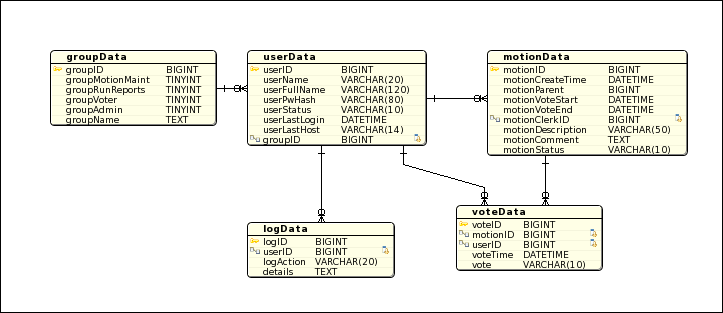
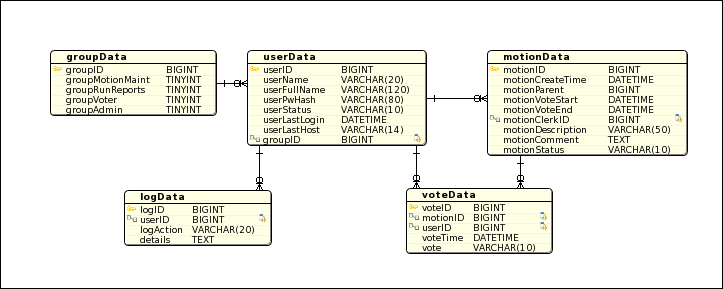
Updated documentation and the dbwrench file to show the correct database name.

diff --git a/schema/docs/tables/schemaA_groupData.html b/schema/docs/tables/schemaA_groupData.html
@@ -7,7 +7,7 @@
 <Body>
 <table class="logo">
 <tr>
-<td class="logo">DbWrench Documentation: nrtb</td>
+<td class="logo">DbWrench Documentation: ccvote</td>
 </tr>
 </table>
 <table class="horzMenu">
@@ -38,20 +38,17 @@
 <img src="../images/ok12d.gif"></p>
 </td><td class="PkCol"> </td><td class="PkCol">Unique group ID number</td><td class="PkCol"> </td>
 </tr>
-<tr class="altRow">
+<tr>
 <td> </td><td><a href="../columns/schemaA_groupData_groupMotionMaint.html">groupMotionMaint</a></td><td>TinyInt</td><td> </td><td> </td><td> </td><td>Allowed to maintain motions</td><td> </td>
 </tr>
 <tr>
 <td> </td><td><a href="../columns/schemaA_groupData_groupRunReports.html">groupRunReports</a></td><td>TinyInt</td><td> </td><td> </td><td> </td><td>Allowed to run reporting</td><td> </td>
 </tr>
-<tr class="altRow">
+<tr>
 <td> </td><td><a href="../columns/schemaA_groupData_groupVoter.html">groupVoter</a></td><td>TinyInt</td><td> </td><td> </td><td> </td><td>Allowed to cast votes</td><td> </td>
 </tr>
 <tr>
 <td> </td><td><a href="../columns/schemaA_groupData_groupAdmin.html">groupAdmin</a></td><td>TinyInt</td><td> </td><td> </td><td> </td><td>Allowed to perform admin functions</td><td> </td>
-</tr>
-<tr class="altRow">
-<td> </td><td><a href="../columns/schemaA_groupData_groupName.html">groupName</a></td><td>Text</td><td> </td><td> </td><td> </td><td>Group name</td><td> </td>
 </tr>
 </table>
 <br>

diff --git a/schema/docs/diagrams/diagramA.html b/schema/docs/diagrams/diagramA.html
@@ -7,7 +7,7 @@
 <Body>
 <table class="logo">
 <tr>
-<td class="logo">DbWrench Documentation: nrtb</td>
+<td class="logo">DbWrench Documentation: ccvote</td>
 </tr>
 </table>
 <table class="horzMenu">
@@ -23,11 +23,11 @@
 </table>
 <br>
 <map id="imgmap" name="imgmap">
-<area coords="50, 50, 217, 126" href="../tables/schemaA_groupData.html" shape="rect">
-<area coords="247, 222, 395, 278" href="../tables/schemaA_logData.html" shape="rect">
+<area coords="50, 50, 217, 116" href="../tables/schemaA_groupData.html" shape="rect">
+<area coords="124, 190, 272, 246" href="../tables/schemaA_logData.html" shape="rect">
 <area coords="487, 50, 688, 156" href="../tables/schemaA_motionData.html" shape="rect">
 <area coords="247, 50, 427, 146" href="../tables/schemaA_userData.html" shape="rect">
-<area coords="456, 205, 603, 271" href="../tables/schemaA_voteData.html" shape="rect">
+<area coords="406, 188, 553, 254" href="../tables/schemaA_voteData.html" shape="rect">
 </map>
 <img src="diagramA.png" usemap="#imgmap"></Body>
 </HTML>

diff --git a/schema/docs/index.html b/schema/docs/index.html
@@ -1,13 +1,13 @@
 <HTML>
 <Header>
-<Title>nrtb Documentation</Title>
+<Title>ccvote Documentation</Title>
 <meta content="text/html; charset=UTF-8" http-equiv="Content-Type">
 <Link href="css/doc.css" rel="stylesheet" type="text/css">
 </Header>
 <Body>
 <table class="logo">
 <tr>
-<td class="logo">DbWrench Documentation: nrtb</td>
+<td class="logo">DbWrench Documentation: ccvote</td>
 </tr>
 </table>
 <table class="horzMenu">
@@ -18,7 +18,7 @@
 <hr>
 <table class="flat">
 <tr class="banner">
-<td class="title_nm">nrtb</td><td class="watermark_right">(Database)</td>
+<td class="title_nm">ccvote</td><td class="watermark_right">(Database)</td>
 </tr>
 <tr>
 <td class="header">Objects</td><td class="header">Count</td>
@@ -51,7 +51,7 @@
 <br>
 <p>
 <b>Documentation Created:</b>
-<k>15 Sep 2012 - 11:29:57 AM</k>
+<k>15 Sep 2012 - 12:29:42 PM</k>
 </p>
 </Body>
 </HTML>

diff --git a/schema/docs/diagrams/index.html b/schema/docs/diagrams/index.html
@@ -1,13 +1,13 @@
 <HTML>
 <Header>
-<Title>nrtb Diagrams</Title>
+<Title>ccvote Diagrams</Title>
 <meta content="text/html; charset=UTF-8" http-equiv="Content-Type">
 <Link href="../css/doc.css" rel="stylesheet" type="text/css">
 </Header>
 <Body>
 <table class="logo">
 <tr>
-<td class="logo">DbWrench Documentation: nrtb</td>
+<td class="logo">DbWrench Documentation: ccvote</td>
 </tr>
 </table>
 <table class="horzMenu">
@@ -22,7 +22,7 @@
 <td class="header"><a href="../diagrams/diagramA.html">diagramA</a></td>
 </tr>
 <tr>
-<td class="diagramThumb"><a href="../diagrams/diagramA.html"><img height="202" src="../diagrams/diagramA.png" width="500"></a></td>
+<td class="diagramThumb"><a href="../diagrams/diagramA.html"><img height="184" src="../diagrams/diagramA.png" width="500"></a></td>
 </tr>
 </table>
 <br>

diff --git a/schema/docs/foreignKeys/index.html b/schema/docs/foreignKeys/index.html
@@ -1,13 +1,13 @@
 <HTML>
 <Header>
-<Title>nrtb Foreign Keys</Title>
+<Title>ccvote Foreign Keys</Title>
 <meta content="text/html; charset=UTF-8" http-equiv="Content-Type">
 <Link href="../css/doc.css" rel="stylesheet" type="text/css">
 </Header>
 <Body>
 <table class="logo">
 <tr>
-<td class="logo">DbWrench Documentation: nrtb</td>
+<td class="logo">DbWrench Documentation: ccvote</td>
 </tr>
 </table>
 <table class="horzMenu">

diff --git a/schema/docs/procedures/index.html b/schema/docs/procedures/index.html
@@ -1,13 +1,13 @@
 <HTML>
 <Header>
-<Title>nrtb Procedures</Title>
+<Title>ccvote Procedures</Title>
 <meta content="text/html; charset=UTF-8" http-equiv="Content-Type">
 <Link href="../css/doc.css" rel="stylesheet" type="text/css">
 </Header>
 <Body>
 <table class="logo">
 <tr>
-<td class="logo">DbWrench Documentation: nrtb</td>
+<td class="logo">DbWrench Documentation: ccvote</td>
 </tr>
 </table>
 <table class="horzMenu">

diff --git a/schema/docs/triggers/index.html b/schema/docs/triggers/index.html
@@ -1,13 +1,13 @@
 <HTML>
 <Header>
-<Title>nrtb Triggers</Title>
+<Title>ccvote Triggers</Title>
 <meta content="text/html; charset=UTF-8" http-equiv="Content-Type">
 <Link href="../css/doc.css" rel="stylesheet" type="text/css">
 </Header>
 <Body>
 <table class="logo">
 <tr>
-<td class="logo">DbWrench Documentation: nrtb</td>
+<td class="logo">DbWrench Documentation: ccvote</td>
 </tr>
 </table>
 <table class="horzMenu">

diff --git a/schema/docs/indexes/index.html b/schema/docs/indexes/index.html
@@ -1,13 +1,13 @@
 <HTML>
 <Header>
-<Title>nrtb Indexes</Title>
+<Title>ccvote Indexes</Title>
 <meta content="text/html; charset=UTF-8" http-equiv="Content-Type">
 <Link href="../css/doc.css" rel="stylesheet" type="text/css">
 </Header>
 <Body>
 <table class="logo">
 <tr>
-<td class="logo">DbWrench Documentation: nrtb</td>
+<td class="logo">DbWrench Documentation: ccvote</td>
 </tr>
 </table>
 <table class="horzMenu">

diff --git a/schema/docs/schemas/index.html b/schema/docs/schemas/index.html
@@ -1,13 +1,13 @@
 <HTML>
 <Header>
-<Title>nrtb Schemas</Title>
+<Title>ccvote Schemas</Title>
 <meta content="text/html; charset=UTF-8" http-equiv="Content-Type">
 <Link href="../css/doc.css" rel="stylesheet" type="text/css">
 </Header>
 <Body>
 <table class="logo">
 <tr>
-<td class="logo">DbWrench Documentation: nrtb</td>
+<td class="logo">DbWrench Documentation: ccvote</td>
 </tr>
 </table>
 <table class="horzMenu">

diff --git a/schema/docs/tables/index.html b/schema/docs/tables/index.html
@@ -1,13 +1,13 @@
 <HTML>
 <Header>
-<Title>nrtb Tables</Title>
+<Title>ccvote Tables</Title>
 <meta content="text/html; charset=UTF-8" http-equiv="Content-Type">
 <Link href="../css/doc.css" rel="stylesheet" type="text/css">
 </Header>
 <Body>
 <table class="logo">
 <tr>
-<td class="logo">DbWrench Documentation: nrtb</td>
+<td class="logo">DbWrench Documentation: ccvote</td>
 </tr>
 </table>
 <table class="horzMenu">

diff --git a/schema/docs/views/index.html b/schema/docs/views/index.html
@@ -1,13 +1,13 @@
 <HTML>
 <Header>
-<Title>nrtb Views</Title>
+<Title>ccvote Views</Title>
 <meta content="text/html; charset=UTF-8" http-equiv="Content-Type">
 <Link href="../css/doc.css" rel="stylesheet" type="text/css">
 </Header>
 <Body>
 <table class="logo">
 <tr>
-<td class="logo">DbWrench Documentation: nrtb</td>
+<td class="logo">DbWrench Documentation: ccvote</td>
 </tr>
 </table>
 <table class="horzMenu">

diff --git a/schema/docs/columns/schemaA_groupData_groupAdmin.html b/schema/docs/columns/schemaA_groupData_groupAdmin.html
@@ -7,7 +7,7 @@
 <Body>
 <table class="logo">
 <tr>
-<td class="logo">DbWrench Documentation: nrtb</td>
+<td class="logo">DbWrench Documentation: ccvote</td>
 </tr>
 </table>
 <table class="horzMenu">
